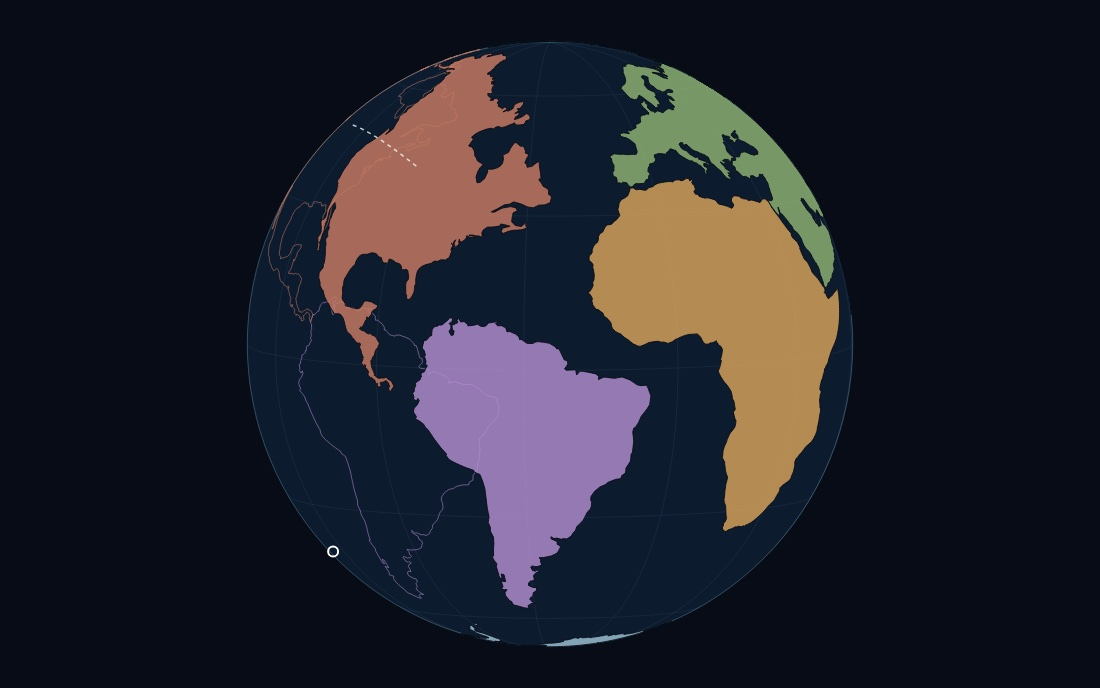
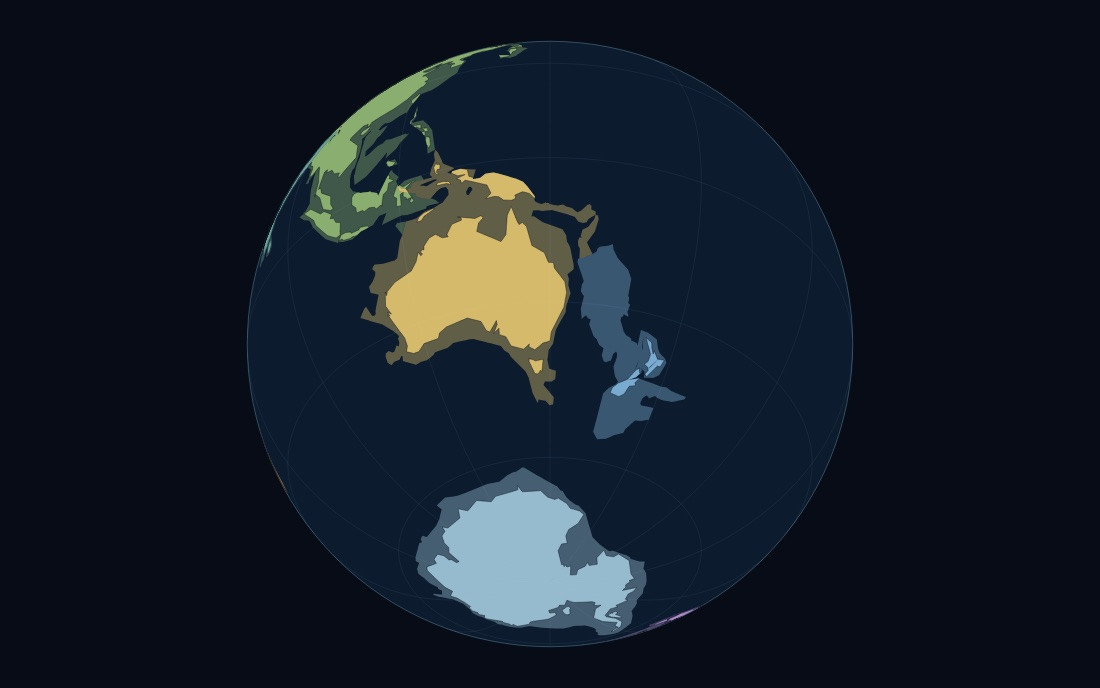
Pangea: describe the three chapters, Play, and Zealandia

Changed region(s): [[0.2164, 0.061, 0.7727, 0.9462], [0.2782, 0.7936, 0.3091, 0.8241]]

diff --git a/data/geodeviewers.js b/data/geodeviewers.js
@@ -224,20 +224,24 @@ export default [
     thumb: 'pangea.jpg',
     status: 'Prototype.',
     summary: [
-      'Six continents on a globe, free to drag. Each moves as a rigid plate on the sphere, by a rotation about an Euler pole. However many drags it takes, the table shows the single pole and angle that carries each continent from where it is today to where you left it.',
-      'Export the arrangement as a GPlates rotation file and it reconstructs the same way in GPlates or pygplates.',
+      'Continents on a globe, free to drag. Each moves as a rigid plate on the sphere, by a rotation about an Euler pole. However many drags it takes, the table shows the single pole and angle that carries each plate from where it is today to where you left it. Press Play and the plates travel back to the present, each turning about its own pole.',
+      'Three chapters, each asking why the last fit was not perfect: six coastlines; then India, Iberia, Madagascar, Greenland and Mexico freed as plates of their own; then the continental crust that lies under the sea, with Zealandia.',
     ],
     contents: [
-      ['Continents', 'Natural Earth 1:110m land, Africa cut from Eurasia at Suez and the Americas at Panama.'],
+      ['Chapters', '1. Fit the continents. 2. More than six. 3. Beneath the waves.'],
+      ['Plates', 'Groups of continental blocks from Müller et al. (2019), land from Natural Earth 1:110m.'],
+      ['Submerged crust', 'Shelves and stretched margins, the real edge of each continent (chapter 3).'],
+      ['Zealandia', 'Lord Howe Rise, Challenger and Campbell plateaus, and New Zealand (chapter 3).'],
       ['Euler pole', 'Each plate\'s total rotation as pole latitude, longitude and angle.'],
-      ['Small circle', 'The path the active plate\'s centre travelled about its pole.'],
-      ['Present day', 'Each moved plate\'s outline, left where it started.'],
-      ['Export', 'A .rot file: identity at 0 Ma, your arrangement at an age you choose.'],
+      ['Play', 'From your reconstruction to present day and back, each plate about its own pole.'],
+      ['Export', 'A .rot file: identity at 0 Ma, your arrangement at the reconstruction age.'],
     ],
     controls: [
-      'Drag a continent to slide it; the point you grabbed stays under the cursor.',
+      'Pick a chapter from the menu.',
+      'Drag a plate to slide it; the point you grabbed stays under the cursor.',
       'Shift-drag, or switch on Twist, to spin it about its own centre.',
       'Drag the ocean to turn the globe.',
+      'Play, or scrub the time bar; grabbing a plate returns to the reconstruction.',
       'Undo, Reset, Export .rot.',
     ],
     lessons: [
@@ -246,12 +250,12 @@ export default [
         level: 'Senior secondary',
         duration: '50 min',
         steps: [
-          'Drag South America against West Africa until the coastlines fit.',
+          'In chapter 1, drag South America against West Africa until the coastlines fit.',
           'Bring North America against northwest Africa and Europe.',
-          'Read each plate\'s pole and angle from the table.',
-          'Compare your fit with a neighbour\'s.',
+          'Open chapter 2 and chapter 3 and fit them again. Note where each change helps.',
+          'Compare your fits with a neighbour\'s.',
         ],
-        ask: 'Two good-looking fits give different poles. Which evidence would decide between them?',
+        ask: 'Coastline, freed blocks, or submerged crust: which change improved the fit most, and why?',
       },
       {
         title: 'One rotation, however many moves',
@@ -265,15 +269,27 @@ export default [
         ask: 'Why can one drag not always get there, but one rotation always can?',
       },
       {
-        title: 'From a sketch to a rotation file',
+        title: 'Play it forward',
         level: 'Undergraduate',
-        duration: '90 min',
+        duration: '60 min',
         steps: [
-          'Assemble a supercontinent and export the .rot at 250 Ma.',
-          'Load it in GPlates with Pangea\'s plates.geojson, mapping its plateId attribute to plate ID.',
-          'Animate from 250 Ma to 0 Ma and watch the continents disperse.',
+          'Assemble a supercontinent in chapter 3 at 200 Ma.',
+          'Press Play and watch the plates return to the present.',
+          'Find two plates whose paths cross or overlap on the way.',
+          'Scrub back and forth to see when it happens.',
         ],
-        ask: 'The file holds only two rotations per plate. What does GPlates assume between them, and is that how continents actually move?',
+        ask: 'Each plate turns steadily about one pole the whole way. Is that how continents actually moved, and what evidence would tell you?',
+      },
+      {
+        title: 'The hidden continent',
+        level: 'Outreach',
+        duration: '15 min',
+        steps: [
+          'Open chapter 3 and find Zealandia.',
+          'Compare how much of it is land with how much is underwater.',
+          'Drag it back against Australia and Antarctica.',
+        ],
+        ask: 'If most of a continent is underwater, how would anyone know it is there?',
       },
     ],
   },
